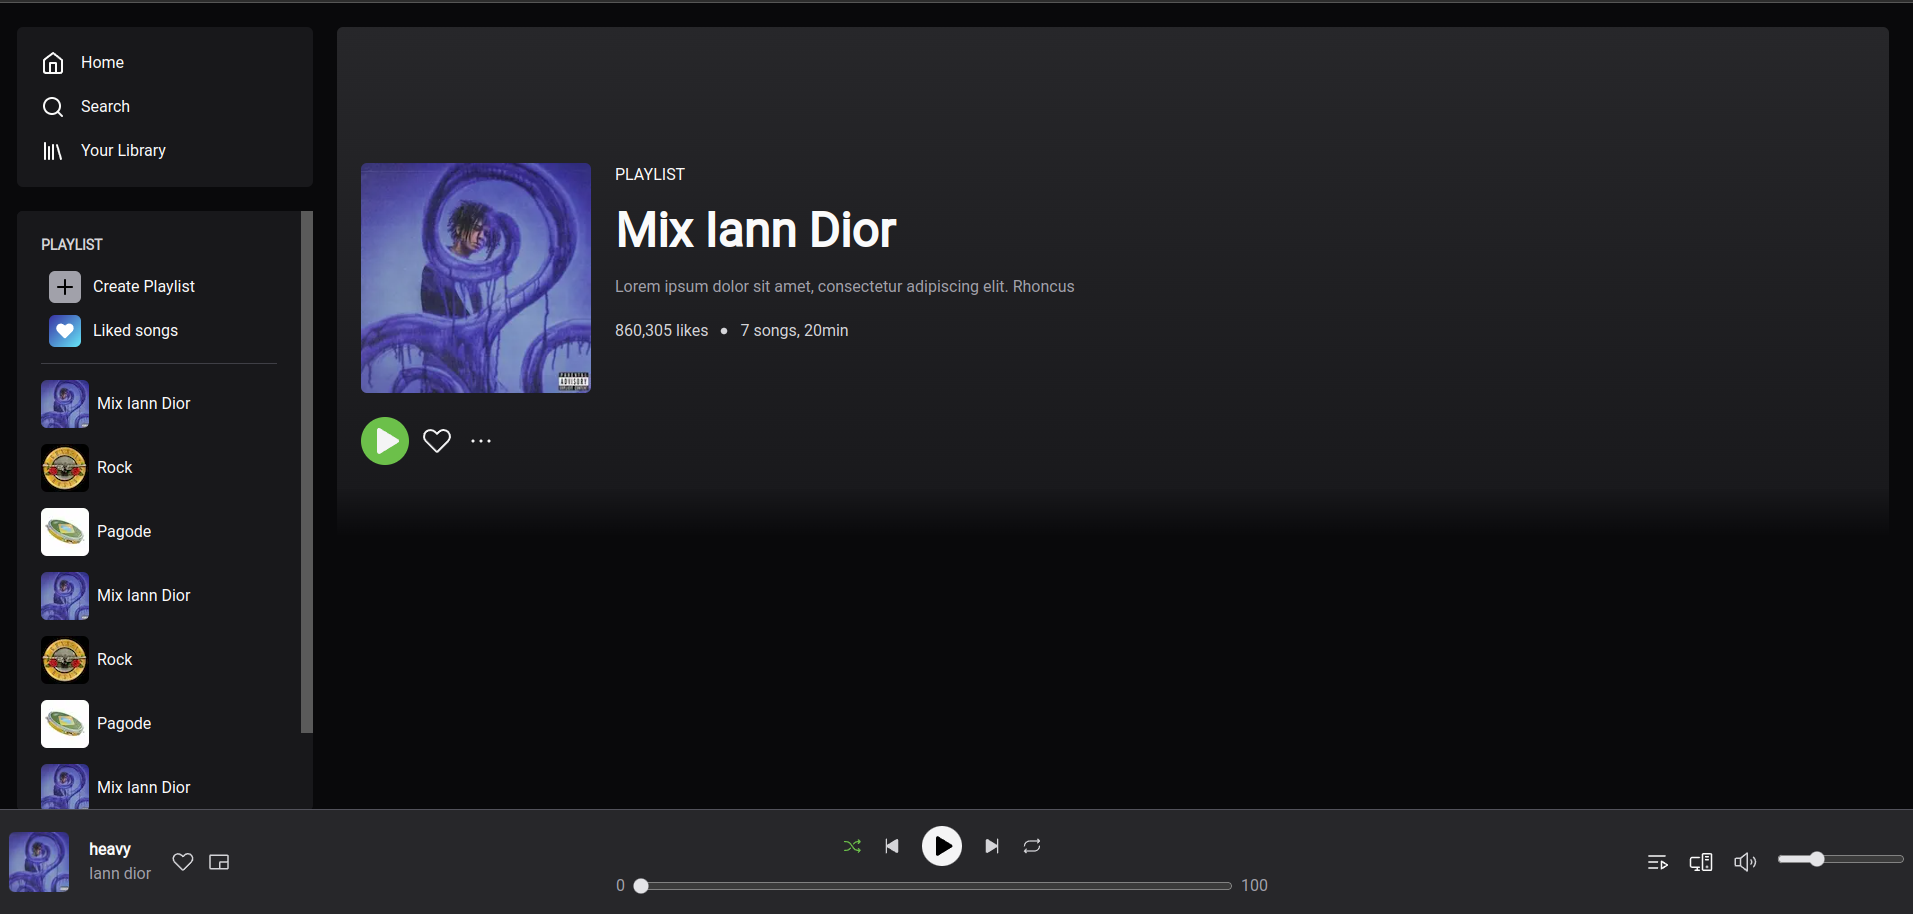
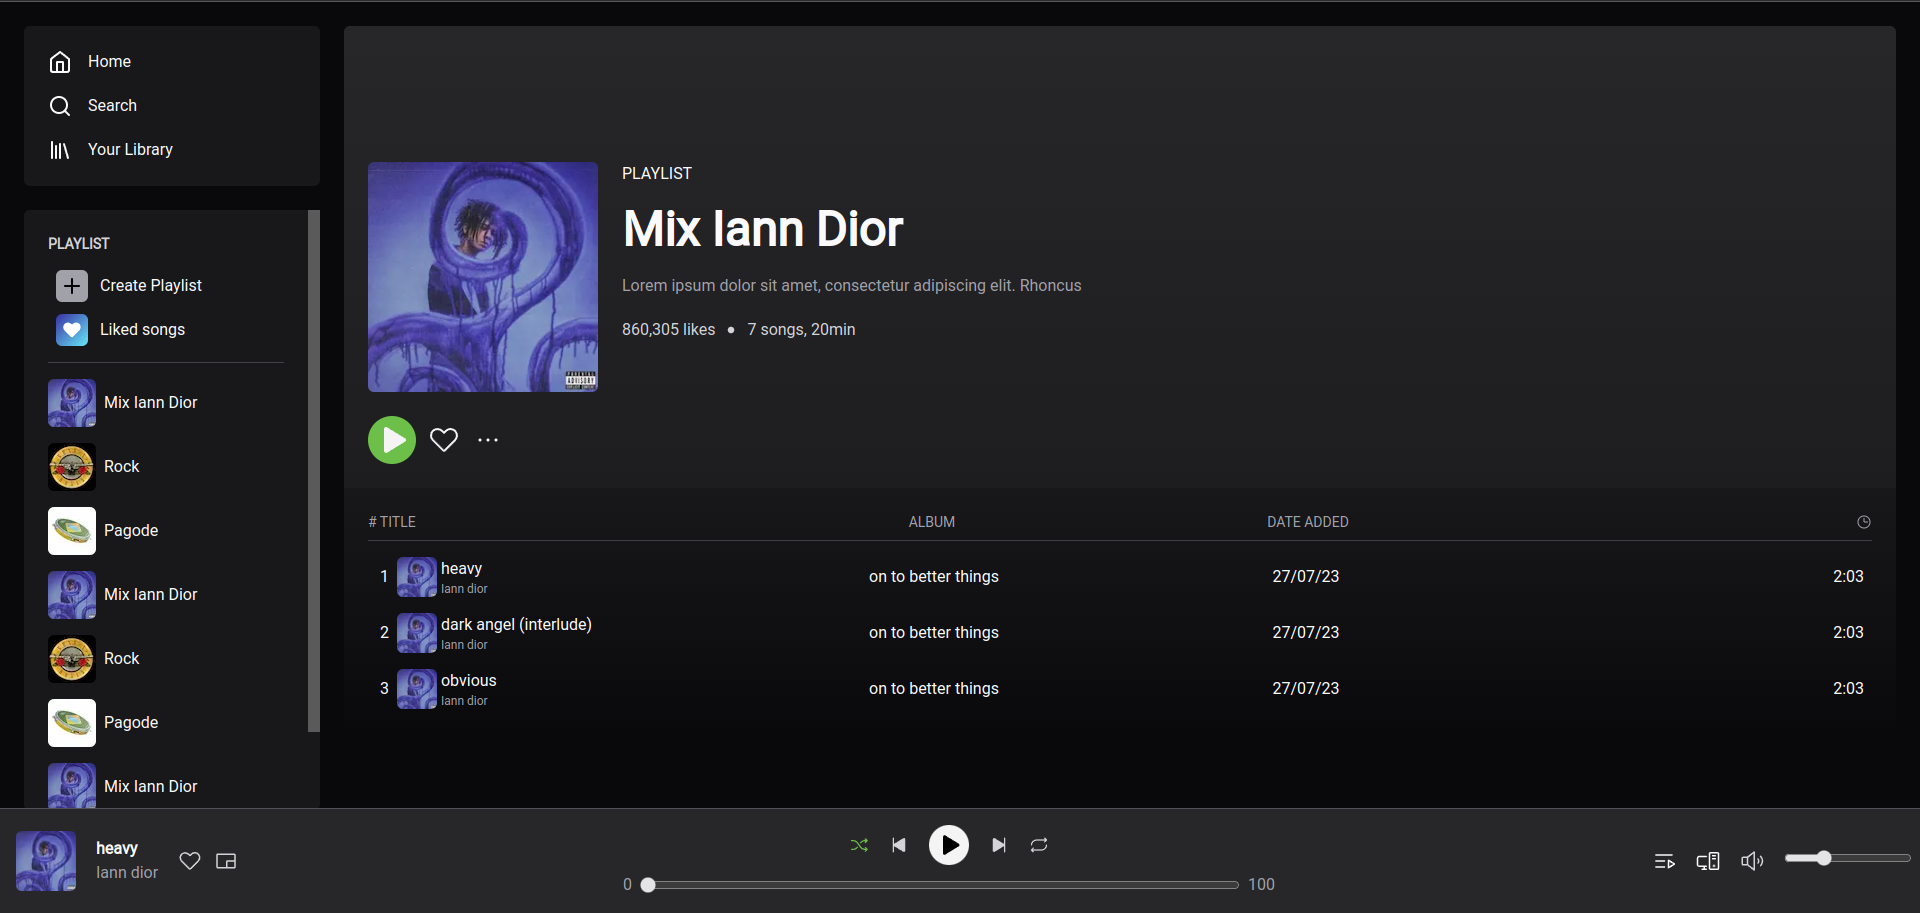
Rota playlist dinamica

diff --git a/src/components/PlaylistPage/PlaylistMusics.tsx b/src/components/PlaylistPage/PlaylistMusics.tsx
@@ -1,59 +1,53 @@
 import Image from "next/image";
 import musics from "@/constants/musics";
 import { Clock } from "phosphor-react";
-
 export function PlaylistMusics() {
   return (
     // pegar as musicas de acordo com a playlist
-
     // !!! desse jeito ta pegando todas as musicas cadastradas
 
     <div className="flex flex-col w-full">
-      <div className="flex items-center justify-between text-zinc-400 uppercase w-full">
-        <span># TITLE</span>
-        <span>album</span>
-        <span>DATE ADDED</span>
-        <span>
-          <Clock />
+      <div className="grid items-center grid-cols-4 text-zinc-400 text-sm uppercase w-full">
+        <span className="flex justify-start"># TITLE</span>
+        <span className="flex justify-center">album</span>
+        <span className="flex justify-center">DATE ADDED</span>
+        <span className="flex justify-end">
+          <Clock size={16} />
         </span>
       </div>
+      <div className="border-t border-zinc-700 my-2 rounded-full"></div>
       <div>
-        {musics.map((musica) => (
-          
-            <button
+        {musics.map((musica, index) => {
+          return (
+            <div
               key={musica.id}
-              className="flex items-center justify-between gap-1 p-1 hover:text-navHover overflow-hidden"
+              className="grid grid-cols-4 items-center w-full p-2"
             >
-
               <div className="flex gap-1">
-              <Image
-                src={musica.image}
-                alt={"Capa da playlist"}
-                width={32}
-                height={32}
-              />
-                <div className="flex flex-col">
-                <span>
-                  {musica.name}
-                </span>
+                <div className="flex items-center p-1">{index + 1}</div>
+                <div>
+                  <Image
+                    src={musica.image}
+                    alt={"Capa da playlist"}
+                    width={40}
+                    height={40}
+                    className="rounded-md"
+                  />
                 </div>
 
+                <div className="flex flex-col">
+                  {musica.name} <p className="text-zinc-400 text-xs">{musica.author}</p>
+                </div>
               </div>
-              
-              
-                <span>
-                  {musica.album}
-                </span>
-                <span>
-                  27/07/23
-                </span>
-                <span>
-                  2:03
-                </span>
 
-              
-            </button>
-        ))}
+              <span className="flex justify-center">{musica.album}</span>
+
+              <span className="flex justify-center">27/07/23</span>
+
+              <span className="flex justify-end">2:03</span>
+            </div>
+          );
+        })}
       </div>
     </div>
   );

diff --git a/src/app/playlist/[id]/page.tsx b/src/app/playlist/[id]/page.tsx
@@ -1,13 +1,18 @@
-"use client";
+'use client'
+import { useParams } from "next/navigation"
 import { Header } from "@/components/PlaylistPage/Header";
 import { PlaylistMusics } from "@/components/PlaylistPage/PlaylistMusics";
 import playlists from "@/constants/playlist";
 
-export default function PlaylistPage() {
-  let id = 1;
+export default function AllPage() {
+    
+    // get ID 
+    const params = useParams() 
+    let id = Number(params.id)
+    const playlist = playlists.find((playlist) => playlist.id === id);
+    
+    return (
 
-  const playlist = playlists.find((playlist) => playlist.id === id);
-  return (
     <div className="flex flex-col h-screen overflow-x-hidden overflow-y-auto">
       <div className="rounded-md bg-gradient-to-b from-zinc-800 to-zinc-900 m-6">
         {playlist && (
@@ -24,11 +29,11 @@ export default function PlaylistPage() {
         <main className="bg-gradient-to-b from-zinc-900 to-zinc-950 w-full p-6">
   
           
-          {/* <PlaylistMusics /> */}
+           <PlaylistMusics /> 
        
        
         </main>
       </div>
     </div>
-  );
+    )
 }

diff --git a/src/components/Aside/HomePlaylists.tsx b/src/components/Aside/HomePlaylists.tsx
@@ -3,24 +3,16 @@
 import playlists from "@/constants/playlist";
 import Image from "next/image";
 import Link from "next/link";
-import { usePlaylist } from "@/hooks/usePlaylist";
-
-const playlistId = playlists.map((playlist) => playlist.id);
-export default playlistId;
 
 export function HomePlaylists() {
-  
-  
-  const playlistSave = usePlaylist();
-  
-  
+
   return (
     <div id="playlist">
       {playlists.map((playlist) => (
         <Link
           key={playlist.id}
           className="flex items-center gap-1 hover:text-navHover overflow-hidden mt-4"
-          href={`/playlist`} // href={`/playlist/${playlist.id}`} pegar esse id na pagina da playlist
+          href={`/playlist/${playlist.id}`}
         >
           <Image
             className="rounded-md"

diff --git a/src/components/Hero/Main/GridPlaylist.tsx b/src/components/Hero/Main/GridPlaylist.tsx
@@ -7,7 +7,7 @@ export function GridPlaylist() {
         <div className="grid grid-cols-4 gap-5">
           {playlists.map((playlist) => (
             <div>
-              <Link href={"#"}>
+              <Link href={`/playlist/${playlist.id}`}>
                 <div
                   key={playlist.id}
                   className="flex items-center bg-zinc-800 hover:bg-zinc-700 transition-all rounded-md overflow-hidden"

diff --git a/src/app/layout.tsx b/src/app/layout.tsx
@@ -30,7 +30,7 @@ export default function RootLayout({
             <Aside />
           </div>
 
-          <div className="w-full">{children}</div>
+          <div className="w-full min-w-[980px]">{children}</div>
         </div>
 
         <div className="sticky bottom-0">

diff --git a/readme.md b/readme.md
@@ -42,3 +42,9 @@ estou juntando elementos do antigo design com o novo, a fim de deixar a interfac
 
 * Terminei o header e comecei a parte de renderizar as musicas, continuo com o problema de não conseguir acessar exatamente da playlist que eu quero.
 Não postei o print com o component implementado, pois ainda tem algumas coisas do design para arrumar que eu resolvi deixar para amanhã
+
+
+### dia 28
+* Consegui criar uma página de playlist usando as rotas dinâmicas do next e o useParams, assim pegando o valor passado na URL com o chave de 'id' e fazendo um find dentro das playlist para pegar apenas o objeto específico de acordo com o id
+
+* Comecei a estilizar a parte de renderização das músicas 
